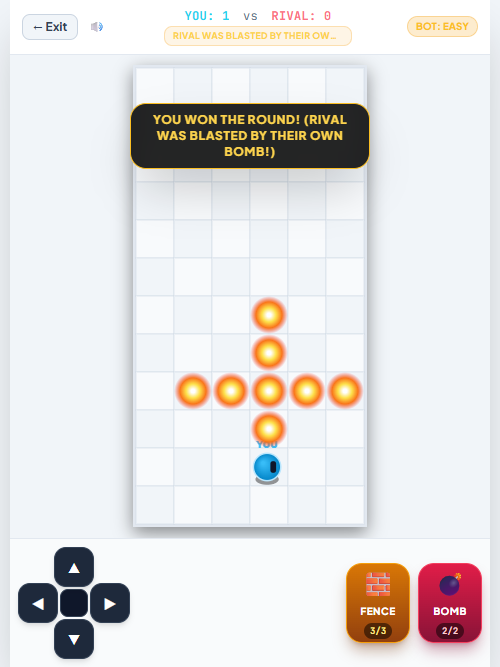
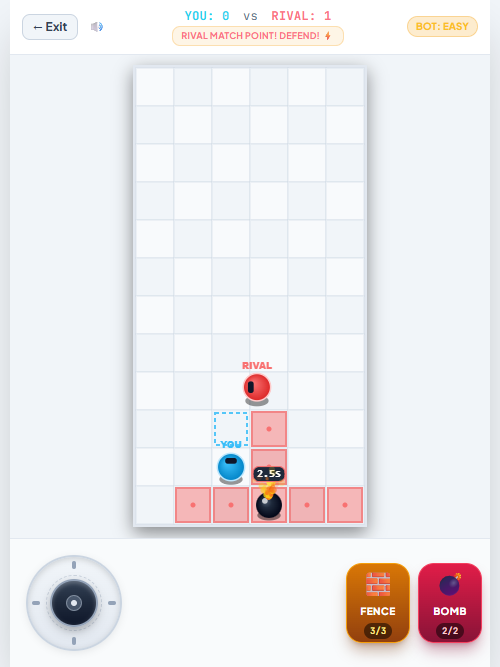
feat(bomb-arena): replace D-Pad with 360-degree virtual analog thumbstick with proportional speed

diff --git a/src/games/bomb-arena/BombArenaGame.ts b/src/games/bomb-arena/BombArenaGame.ts
@@ -30,6 +30,20 @@ export class BombArenaGame implements GameInstance {
     right: false
   };
 
+  // Virtual analog joystick state
+  private joystick = {
+    active: false,
+    pointerId: -1,
+    dx: 0,
+    dy: 0,
+    zoneEl: null as HTMLElement | null,
+    baseEl: null as HTMLElement | null,
+    knobEl: null as HTMLElement | null
+  };
+  private boundJoystickDown: ((e: PointerEvent) => void) | null = null;
+  private boundJoystickMove: ((e: PointerEvent) => void) | null = null;
+  private boundJoystickUp: ((e: PointerEvent) => void) | null = null;
+
   // State & Network
   private opponentName: string = 'Opponent';
   private rematchState: 'idle' | 'requested' | 'offer_received' = 'idle';
@@ -189,23 +203,40 @@ export class BombArenaGame implements GameInstance {
           isDark ? 'border-slate-800 bg-slate-900/90' : 'border-slate-200 bg-slate-50/95'
         } z-20 shrink-0 flex items-center justify-between gap-2">
           
-          <!-- Virtual 4-Way D-Pad -->
-          <div class="relative w-28 h-28 shrink-0 flex items-center justify-center select-none touch-none">
-            <!-- Up -->
-            <button id="dpad-up" class="absolute top-0 left-9 w-10 h-10 rounded-xl bg-slate-800 hover:bg-slate-700 active:bg-cyan-600 active:scale-95 text-white font-black text-sm flex items-center justify-center border border-slate-700 shadow-md">▲</button>
-            <!-- Down -->
-            <button id="dpad-down" class="absolute bottom-0 left-9 w-10 h-10 rounded-xl bg-slate-800 hover:bg-slate-700 active:bg-cyan-600 active:scale-95 text-white font-black text-sm flex items-center justify-center border border-slate-700 shadow-md">▼</button>
-            <!-- Left -->
-            <button id="dpad-left" class="absolute left-0 top-9 w-10 h-10 rounded-xl bg-slate-800 hover:bg-slate-700 active:bg-cyan-600 active:scale-95 text-white font-black text-sm flex items-center justify-center border border-slate-700 shadow-md">◀</button>
-            <!-- Right -->
-            <button id="dpad-right" class="absolute right-0 top-9 w-10 h-10 rounded-xl bg-slate-800 hover:bg-slate-700 active:bg-cyan-600 active:scale-95 text-white font-black text-sm flex items-center justify-center border border-slate-700 shadow-md">▶</button>
-            <!-- Center Pad -->
-            <div class="w-7 h-7 rounded-lg bg-slate-900 border border-slate-700"></div>
+          <!-- Virtual Analog Thumbstick -->
+          <div id="bomb-joystick-zone" class="relative w-28 h-28 shrink-0 flex items-center justify-center select-none touch-none cursor-pointer">
+            <!-- Outer Ring Base -->
+            <div id="bomb-joystick-base" class="relative w-24 h-24 sm:w-26 sm:h-26 rounded-full border-2 ${
+              isDark
+                ? 'bg-gradient-to-b from-slate-900 to-slate-950 border-slate-700/80 shadow-[inset_0_2px_8px_rgba(0,0,0,0.8),0_4px_12px_rgba(0,0,0,0.3)]'
+                : 'bg-gradient-to-b from-slate-100 to-slate-200 border-slate-300 shadow-[inset_0_2px_6px_rgba(0,0,0,0.15),0_2px_8px_rgba(0,0,0,0.08)]'
+            } flex items-center justify-center pointer-events-none">
+              <!-- Directional Crosshair Ticks -->
+              <div class="absolute top-1 left-1/2 -translate-x-1/2 w-1 h-2 rounded-full ${isDark ? 'bg-cyan-500/60' : 'bg-slate-400'}"></div>
+              <div class="absolute bottom-1 left-1/2 -translate-x-1/2 w-1 h-2 rounded-full ${isDark ? 'bg-cyan-500/60' : 'bg-slate-400'}"></div>
+              <div class="absolute left-1 top-1/2 -translate-y-1/2 w-2 h-1 rounded-full ${isDark ? 'bg-cyan-500/60' : 'bg-slate-400'}"></div>
+              <div class="absolute right-1 top-1/2 -translate-y-1/2 w-2 h-1 rounded-full ${isDark ? 'bg-cyan-500/60' : 'bg-slate-400'}"></div>
+              <!-- Inner Concentric Guide Ring -->
+              <div class="w-14 h-14 rounded-full border border-dashed ${isDark ? 'border-cyan-500/25' : 'border-slate-400/40'}"></div>
+              <!-- Thumbstick Knob -->
+              <div id="bomb-joystick-knob" class="absolute top-1/2 left-1/2 -translate-x-1/2 -translate-y-1/2 w-12 h-12 rounded-full border-2 ${
+                isDark
+                  ? 'bg-gradient-to-b from-cyan-400 via-cyan-500 to-blue-600 border-cyan-200 shadow-[0_4px_14px_rgba(6,182,212,0.45),inset_0_2px_4px_rgba(255,255,255,0.4)]'
+                  : 'bg-gradient-to-b from-slate-700 via-slate-800 to-slate-900 border-slate-400 shadow-[0_4px_10px_rgba(0,0,0,0.3),inset_0_2px_4px_rgba(255,255,255,0.25)]'
+              } flex items-center justify-center will-change-transform shadow-lg">
+                <!-- Center Grip Texture -->
+                <div class="w-4 h-4 rounded-full ${
+                  isDark ? 'bg-cyan-900/60 border border-cyan-300/40 shadow-[inset_0_1px_3px_rgba(0,0,0,0.6)]' : 'bg-slate-500/60 border border-slate-300/40'
+                } flex items-center justify-center">
+                  <div class="w-1.5 h-1.5 rounded-full ${isDark ? 'bg-cyan-200' : 'bg-slate-200'}"></div>
+                </div>
+              </div>
+            </div>
           </div>
 
           <!-- Middle Keyboard Hint for Desktop -->
           <div class="hidden sm:flex flex-col items-center text-[10px] text-slate-400 font-mono text-center">
-            <span>[WASD / Arrows] Move</span>
+            <span>[WASD / Analog] Move</span>
             <span>[J / Shift] Place Fence</span>
             <span>[K / Space] Drop Bomb</span>
           </div>
@@ -367,30 +398,8 @@ export class BombArenaGame implements GameInstance {
     window.addEventListener('keydown', this.boundKeyDown);
     window.addEventListener('keyup', this.boundKeyUp);
 
-    // 2. Mobile D-Pad Touch Listeners
-    const bindDpad = (btnId: string, dir: 'up' | 'down' | 'left' | 'right') => {
-      const btn = document.getElementById(btnId);
-      if (!btn) return;
-
-      const start = (e: Event) => {
-        e.preventDefault();
-        this.keyState[dir] = true;
-      };
-      const end = (e: Event) => {
-        e.preventDefault();
-        this.keyState[dir] = false;
-      };
-
-      btn.addEventListener('pointerdown', start);
-      btn.addEventListener('pointerup', end);
-      btn.addEventListener('pointercancel', end);
-      btn.addEventListener('pointerleave', end);
-    };
-
-    bindDpad('dpad-up', 'up');
-    bindDpad('dpad-down', 'down');
-    bindDpad('dpad-left', 'left');
-    bindDpad('dpad-right', 'right');
+    // 2. Virtual Analog Joystick
+    this.initJoystick();
 
     // 3. Action Buttons (Fence & Bomb)
     document.getElementById('bomb-btn-fence')?.addEventListener('pointerdown', (e) => {
@@ -402,6 +411,87 @@ export class BombArenaGame implements GameInstance {
       e.preventDefault();
       this.triggerPlaceBomb();
     });
+  }
+
+  private initJoystick() {
+    const zone = document.getElementById('bomb-joystick-zone');
+    const base = document.getElementById('bomb-joystick-base');
+    const knob = document.getElementById('bomb-joystick-knob');
+    if (!zone || !base || !knob) return;
+
+    this.joystick.zoneEl = zone;
+    this.joystick.baseEl = base;
+    this.joystick.knobEl = knob;
+
+    const updateKnobAndInput = (clientX: number, clientY: number) => {
+      const rect = base.getBoundingClientRect();
+      const centerX = rect.left + rect.width / 2;
+      const centerY = rect.top + rect.height / 2;
+      const maxRadius = (rect.width / 2) * 0.72;
+
+      const deltaX = clientX - centerX;
+      const deltaY = clientY - centerY;
+      const distance = Math.hypot(deltaX, deltaY);
+
+      if (distance < 4) {
+        this.joystick.dx = 0;
+        this.joystick.dy = 0;
+        knob.style.transform = 'translate3d(-50%, -50%, 0)';
+        return;
+      }
+
+      const clampedDist = Math.min(distance, maxRadius);
+      const angle = Math.atan2(deltaY, deltaX);
+      const moveX = Math.cos(angle) * clampedDist;
+      const moveY = Math.sin(angle) * clampedDist;
+
+      knob.style.transform = `translate3d(calc(-50% + ${moveX.toFixed(1)}px), calc(-50% + ${moveY.toFixed(1)}px), 0)`;
+      this.joystick.dx = moveX / maxRadius;
+      this.joystick.dy = moveY / maxRadius;
+    };
+
+    const handlePointerDown = (e: PointerEvent) => {
+      if (this.joystick.active) return;
+      e.preventDefault();
+      this.joystick.active = true;
+      this.joystick.pointerId = e.pointerId;
+      try {
+        zone.setPointerCapture(e.pointerId);
+      } catch {}
+      knob.style.transition = 'none';
+      updateKnobAndInput(e.clientX, e.clientY);
+    };
+
+    const handlePointerMove = (e: PointerEvent) => {
+      if (!this.joystick.active || e.pointerId !== this.joystick.pointerId) return;
+      e.preventDefault();
+      updateKnobAndInput(e.clientX, e.clientY);
+    };
+
+    const handlePointerUp = (e: PointerEvent) => {
+      if (!this.joystick.active || e.pointerId !== this.joystick.pointerId) return;
+      e.preventDefault();
+      this.joystick.active = false;
+      this.joystick.pointerId = -1;
+      this.joystick.dx = 0;
+      this.joystick.dy = 0;
+      try {
+        zone.releasePointerCapture(e.pointerId);
+      } catch {}
+
+      knob.style.transition = 'transform 0.16s cubic-bezier(0.175, 0.885, 0.32, 1.275)';
+      knob.style.transform = 'translate3d(-50%, -50%, 0)';
+    };
+
+    zone.addEventListener('pointerdown', handlePointerDown);
+    zone.addEventListener('pointermove', handlePointerMove);
+    zone.addEventListener('pointerup', handlePointerUp);
+    zone.addEventListener('pointercancel', handlePointerUp);
+    zone.addEventListener('lostpointercapture', handlePointerUp);
+
+    this.boundJoystickDown = handlePointerDown;
+    this.boundJoystickMove = handlePointerMove;
+    this.boundJoystickUp = handlePointerUp;
   }
 
   private handleKeyDown(e: KeyboardEvent) {
@@ -758,10 +848,18 @@ export class BombArenaGame implements GameInstance {
       if (this.engine.state.phase === 'PLAYING') {
         let dx = 0;
         let dy = 0;
-        if (this.keyState.up) dy -= 1;
-        if (this.keyState.down) dy += 1;
-        if (this.keyState.left) dx -= 1;
-        if (this.keyState.right) dx += 1;
+
+        // Check virtual analog joystick first
+        if (this.joystick.active && (this.joystick.dx !== 0 || this.joystick.dy !== 0)) {
+          dx = this.joystick.dx;
+          dy = this.joystick.dy;
+        } else {
+          // Fallback to keyboard keys
+          if (this.keyState.up) dy -= 1;
+          if (this.keyState.down) dy += 1;
+          if (this.keyState.left) dx -= 1;
+          if (this.keyState.right) dx += 1;
+        }
 
         this.engine.movePlayer('player', dx, dy, dt);
 
@@ -1138,6 +1236,16 @@ export class BombArenaGame implements GameInstance {
     window.removeEventListener('resize', this.boundResize);
     window.removeEventListener('keydown', this.boundKeyDown);
     window.removeEventListener('keyup', this.boundKeyUp);
+    if (this.joystick.zoneEl && this.boundJoystickDown && this.boundJoystickMove && this.boundJoystickUp) {
+      this.joystick.zoneEl.removeEventListener('pointerdown', this.boundJoystickDown);
+      this.joystick.zoneEl.removeEventListener('pointermove', this.boundJoystickMove);
+      this.joystick.zoneEl.removeEventListener('pointerup', this.boundJoystickUp);
+      this.joystick.zoneEl.removeEventListener('pointercancel', this.boundJoystickUp);
+      this.joystick.zoneEl.removeEventListener('lostpointercapture', this.boundJoystickUp);
+    }
+    this.joystick.zoneEl = null;
+    this.joystick.baseEl = null;
+    this.joystick.knobEl = null;
     if (this.resizeObserver) {
       this.resizeObserver.disconnect();
       this.resizeObserver = null;

diff --git a/src/games/bomb-arena/bomb-arena-engine.ts b/src/games/bomb-arena/bomb-arena-engine.ts
@@ -176,7 +176,8 @@ export class BombArenaEngine {
     const p = id === 'player' ? this.state.player : this.state.opponent;
     if (p.isDead) return;
 
-    if (dx === 0 && dy === 0) {
+    const len = Math.hypot(dx, dy);
+    if (len < 0.08) {
       p.isMoving = false;
       return;
     }
@@ -189,10 +190,10 @@ export class BombArenaEngine {
       p.facing = dy > 0 ? 'down' : 'up';
     }
 
-    const dist = BOMB_ARENA_CONSTANTS.PLAYER_SPEED * dt;
-    const len = Math.hypot(dx, dy);
-    const vx = (dx / len) * dist;
-    const vy = (dy / len) * dist;
+    // Proportional speed: slight stick tilt moves slower, full tilt runs at max speed
+    const speed = BOMB_ARENA_CONSTANTS.PLAYER_SPEED * Math.min(1, Math.max(0.35, len)) * dt;
+    const vx = (dx / len) * speed;
+    const vy = (dy / len) * speed;
 
     // Move along X with collision and corner assist
     if (vx !== 0) {
@@ -204,7 +205,7 @@ export class BombArenaEngine {
         const nearestRow = Math.floor(p.y) + 0.5;
         const diffY = nearestRow - p.y;
         if (Math.abs(diffY) > 0.05 && Math.abs(diffY) < 0.42) {
-          const slideStep = Math.sign(diffY) * Math.min(Math.abs(diffY), dist * 0.75);
+          const slideStep = Math.sign(diffY) * Math.min(Math.abs(diffY), speed * 0.75);
           if (!this.checkPlayerCollision(p.x, p.y + slideStep, p.id)) {
             p.y += slideStep;
           }
@@ -222,7 +223,7 @@ export class BombArenaEngine {
         const nearestCol = Math.floor(p.x) + 0.5;
         const diffX = nearestCol - p.x;
         if (Math.abs(diffX) > 0.05 && Math.abs(diffX) < 0.42) {
-          const slideStep = Math.sign(diffX) * Math.min(Math.abs(diffX), dist * 0.75);
+          const slideStep = Math.sign(diffX) * Math.min(Math.abs(diffX), speed * 0.75);
           if (!this.checkPlayerCollision(p.x + slideStep, p.y, p.id)) {
             p.x += slideStep;
           }

diff --git a/README.md b/README.md
@@ -87,7 +87,7 @@ A modern, competitive 1v1 web arcade featuring **12 real-time games** built with
 - **3-Second Fuse & Threat Preview**: Bombs tick down over 3 seconds with audible fuse clicks and real-time visual danger overlays highlighting upcoming blast corridors. Friendly fire is active!
 - **Dynamic Shrinking Arena**: As the match progresses, the arena collapses row by row and column by column from the borders ($12\times6 \rightarrow 10\times6 \rightarrow 8\times6 \rightarrow 8\times4 \rightarrow 6\times4$), forcing tense close-quarters duels.
 - **Best of 3 Format**: First player to secure 2 round victories claims championship glory, complete with match round history badges, countdown resets, and a two-way rematch handshake.
-- **Intuitive Touch & Keyboard Controls**: Option A layout featuring a responsive virtual D-Pad on the left and dedicated `[🧱 FENCE]` and `[💣 BOMB]` action buttons on the right, plus full WASD/Arrow Keys + J/K keyboard shortcuts.
+- **Intuitive Touch & Keyboard Controls**: Option A layout featuring a smooth $360^\circ$ virtual analog thumbstick with proportional speed and corner-sliding assist on the left, dedicated `[🧱 FENCE]` and `[💣 BOMB]` action buttons on the right, plus full WASD/Arrow Keys + J/K keyboard shortcuts.
 - **Tactical AI Bot**: 4 difficulty tiers (Easy, Medium, Hard, Extreme) with BFS danger-avoidance pathfinding, trapping algorithms, and strategic barricade demolition.
 
 ---
